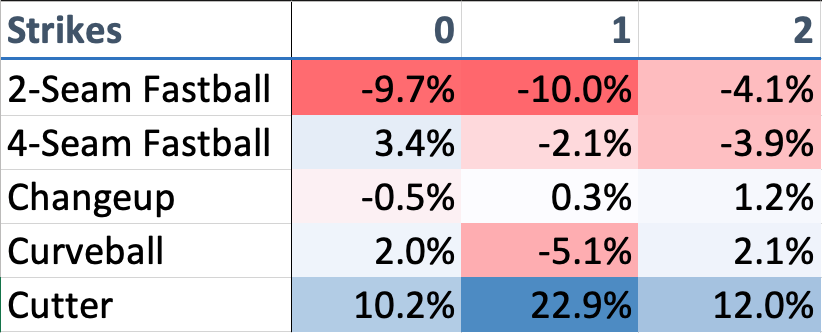
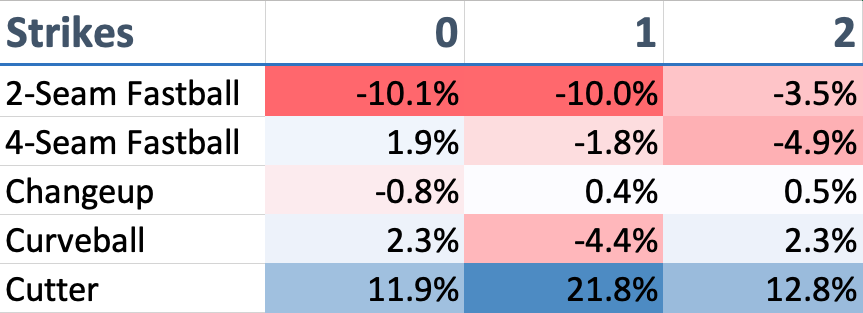
Update all values

Changed region(s): [[0.0, 0.0, 1.0, 1.0], [0.4258, 0.5463, 0.5779, 0.6613]]

diff --git a/_posts/2019-06-14-lance-lynn.md b/_posts/2019-06-14-lance-lynn.md
@@ -1,0 +1,41 @@
+---
+layout: post
+title: "Evaluating Lance Lynn's Unexpected 2019"
+date: 2019-06-14
+categories: Baseball
+tags: [baseball]
+---
+
+If you scroll down the [pitching leaders](https://www.fangraphs.com/leaders.aspx?pos=all&stats=pit&lg=all&qual=y&type=8&season=2019&month=0&season1=2019&ind=0) page at Fangraphs today, most of the top names are not so surprising, but one unexpected name is Lance Lynn. Currently, Lynn is tied for 3th overall with 2.9 fWAR. Historically, Lynn has been a consistent pitcher, a 2-3 WAR guy who can eat innings, but he's hardly the type of character you would expect to break out. He's currently in his age 32 season, putting him on the wrong side of the starting pitcher aging curve, and post Tommy John surgery, which he underwent at the end of 2015.
+
+If you look longer at Lynn's row on the pitching leaderboard, something else might catch your eye - he's managed this while having a 4.40 ERA. This is symptomatic of fWAR being calculated using his FIP, which is considerably better at 3.03, meaning the Rangers defense is costing him more than a run per 9 innings. This is further highlighted in his BABIP, suffering from a career-worst at .349, where league average this year is .292. In fact, his FIP is a full point lower than his own career average, indicating that there has been some significant, true improvement this year. To evaluate this season against his prior production, I took a look at Lynn's IP per WAR:
+
+<img src="/blogimages/lynn2019/ip_per_war.png" alt="" class="center" border="5" style="width:800px;"/>
+
+Already this plot is a bit surprising, the expectation for such a distribution would be to follow a typical aging curve, but, excluding the outlier, Lynn seems to be continuing to improve. If you do drop off the outlier and remove his missed year for Tommy John surgery, a linear regression does quite well in describing his improvement year-to-year:
+
+<img src="/blogimages/lynn2019/lynn_ip_per_war_regression.png" alt="" class="center" border="5" style="width:800px;"/>
+
+But this trend has broken down in 2019. Following the linear trend, you might expect him to be worth a win every 50 IP. If you were realistic and evaluated this against an aging curve, you might expect worse than that. Instead, he's been worth a win every 30 innings pitched, something nobody would have expected walking into this season. 
+
+Lynn started a 3-year, $30M contract with the Rangers this year, so it's possible you can contribute some of this to pitching against different opponents, but for a change this significant, I went on to look into if there were any major smoking guns to indicate a change in approach.
+
+If you know anything about Lance Lynn, you know that he likes fastballs. I mean, he really likes fastballs. On June 2, 2015, Lynn threw 118 pitches in a 1-0 win over the Brewers. Of those, 117 were fastballs. On being asked what the other was, he replied "It was an out, who cares?" Following this start, in one of [my favorite postgame interviews of all time](https://www.youtube.com/watch?v=m5dvlF002mw), while joking with the media, he foreshadows talking about secondary pitches "...it's part of evolving as a pitcher, you never know when you get older and might need some other pitches, so why not work on them now?"
+
+In fact, that's the most notable change in his approach this year. Lynn's 4 and 2-seam fastball usage (FB%) is significantly down from prior years, to 69.0%, 8.0% lower than his career average. Taking a look at his total pitch composition:
+
+<img src="/blogimages/lynn2019/lynn_stack.png" alt="" class="center" border="5" style="width:800px;"/>
+
+<img src="/blogimages/lynn2019/lynn_line.png" alt="" class="center" border="5" style="width:800px;"/>
+
+While his fastball usage has decreased in aggregate, it's really that he's scaled back his 2-seam usage significantly. He's actually increased his 4-seam usage and is getting more and more comfortable with his cutter, increasing throwing it 6.5% more than last year. So there's a notable change in pitch selection.
+
+To investigate if his improvement this year is a result of this change in pitch selection, I looked at the results of each pitch type. Over the course of his career, his cutter is thrown for strikes 3.5% more than his 2-seam fastball, and his 4-seamer is thrown for 3.8% more strikes than the 2-seamer. Furthermore, these pitches result in fewer balls in play: 4.3% fewer by the 4-seamer, 2.0% fewer by the cutter compared to the 2-seamer. So, the outcomes of these pitches do seem to be slightly more favorable, and in a game of large sample sizes, these percent-level improvements matter.
+
+One other interesting check is Lynn's usage of each pitch based on the count. For this, I compared the rate he uses each pitch, subtracting his rate prior to 2019 from his usage so far this season. This table shows the change for 2019 vs previous years:
+
+<img src="/blogimages/lynn2019/usage_table.png" alt="" class="center" border="5" style="width:800px;"/>
+
+His reduction in 2-seam fastballs has been more drastic earlier in the count, while his usage with 2 strikes hasn't fallen off quite as much. The integration of his cutter is heavily skewed toward situations with 1 strike. Looking at the raw values, this year he's thrown it in 25% of counts with 1-strike, compared to about 15% in 0 and 2-strike counts.
+
+In summary, Lance Lynn seems to be doing much better this year, a fact that you might not glean from his ERA, but is evidenced in his FIP. So far, he's working at a rate that produces a win roughly 20 IP quicker than expected, and some of this seems to be the product of transitioning away from his 2-seam fastball in favor of more 4-seamers and cutters.
